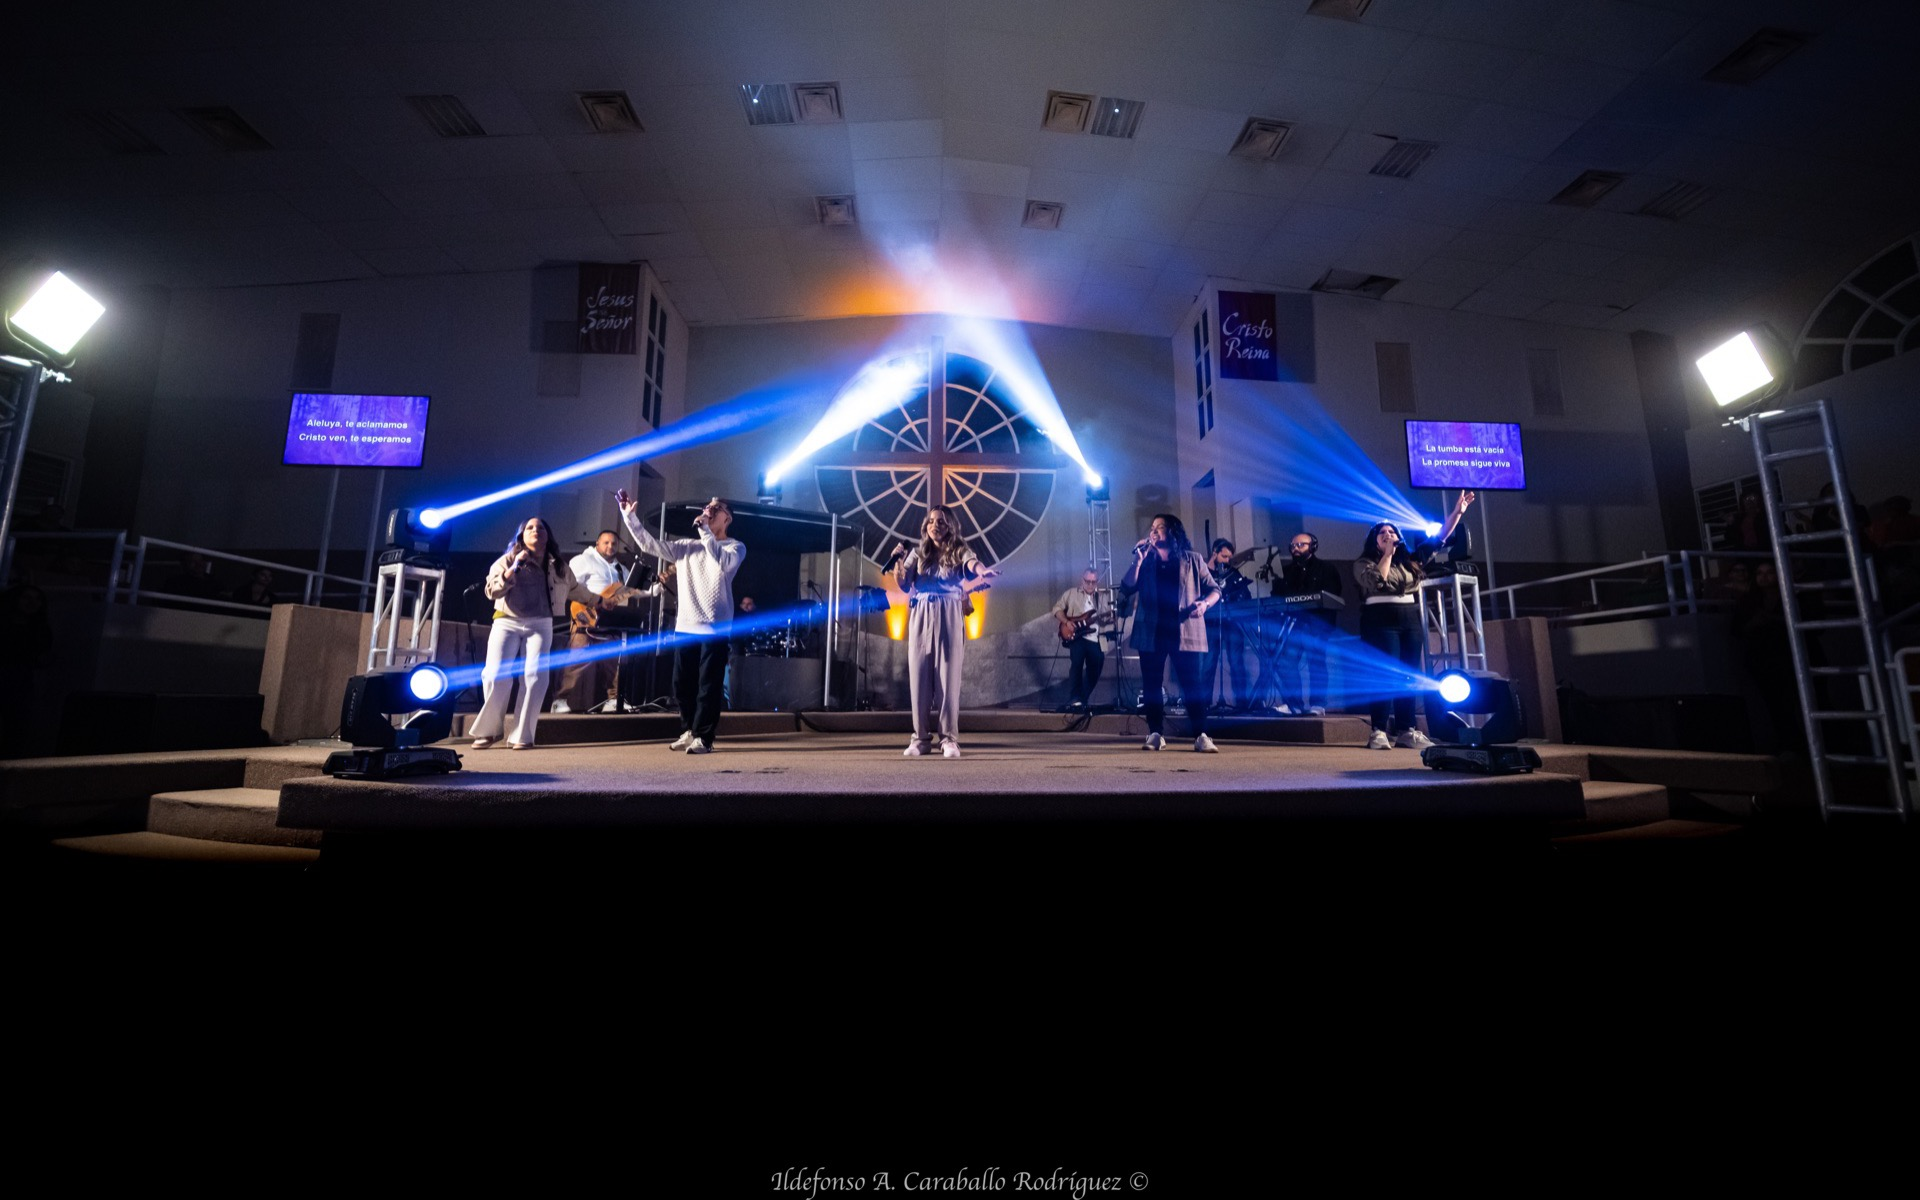
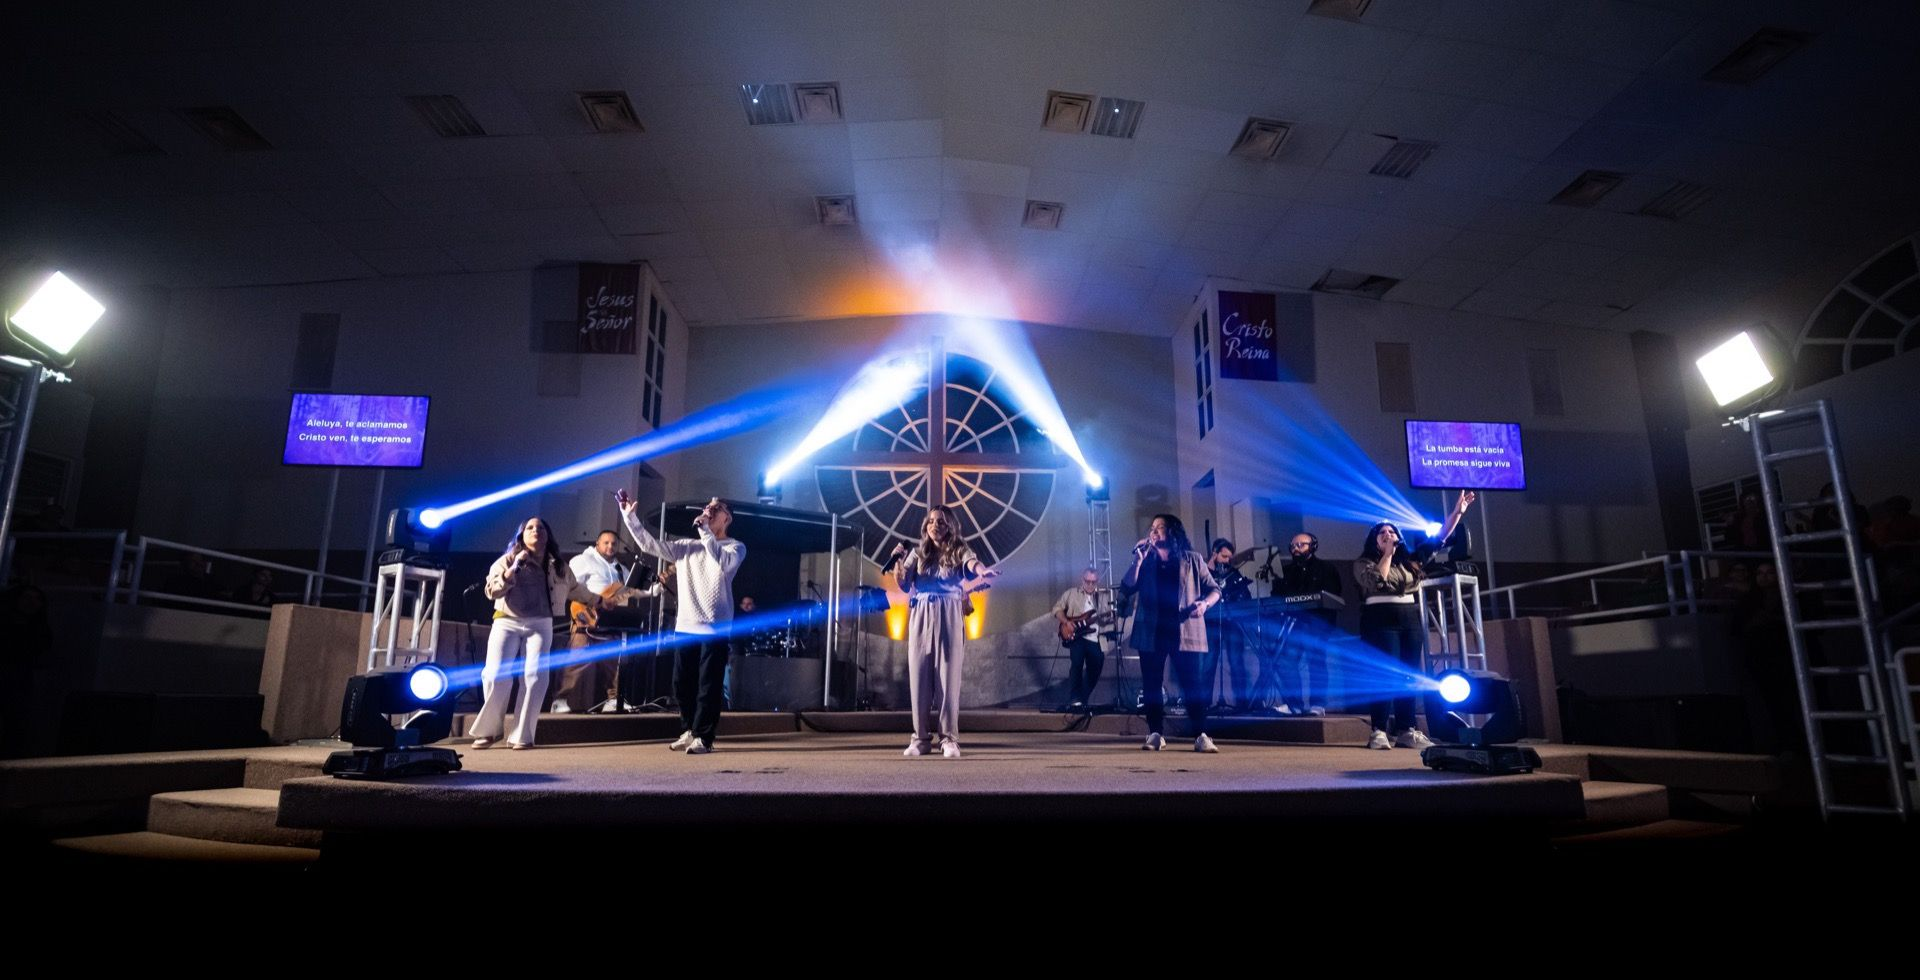
Cover hero watermark via gradient fade and additional crop
- Crop background.jpeg further (1200px → 980px) to remove as much of the watermark area as possible
- Deepen the bottom of the hero overlay gradient to fully black (rgba 1.0 at 100%) so the watermark is completely hidden and transitions naturally into the dark page background

diff --git a/css/styles.css b/css/styles.css
@@ -210,8 +210,9 @@ nav ul li a:hover::after {
   background: linear-gradient(
     to bottom,
     rgba(0, 0, 0, 0.55) 0%,
-    rgba(0, 0, 0, 0.4) 50%,
-    rgba(0, 0, 0, 0.65) 100%
+    rgba(0, 0, 0, 0.3) 45%,
+    rgba(0, 0, 0, 0.85) 80%,
+    rgba(0, 0, 0, 1.0) 100%
   );
   z-index: 1;
 }
